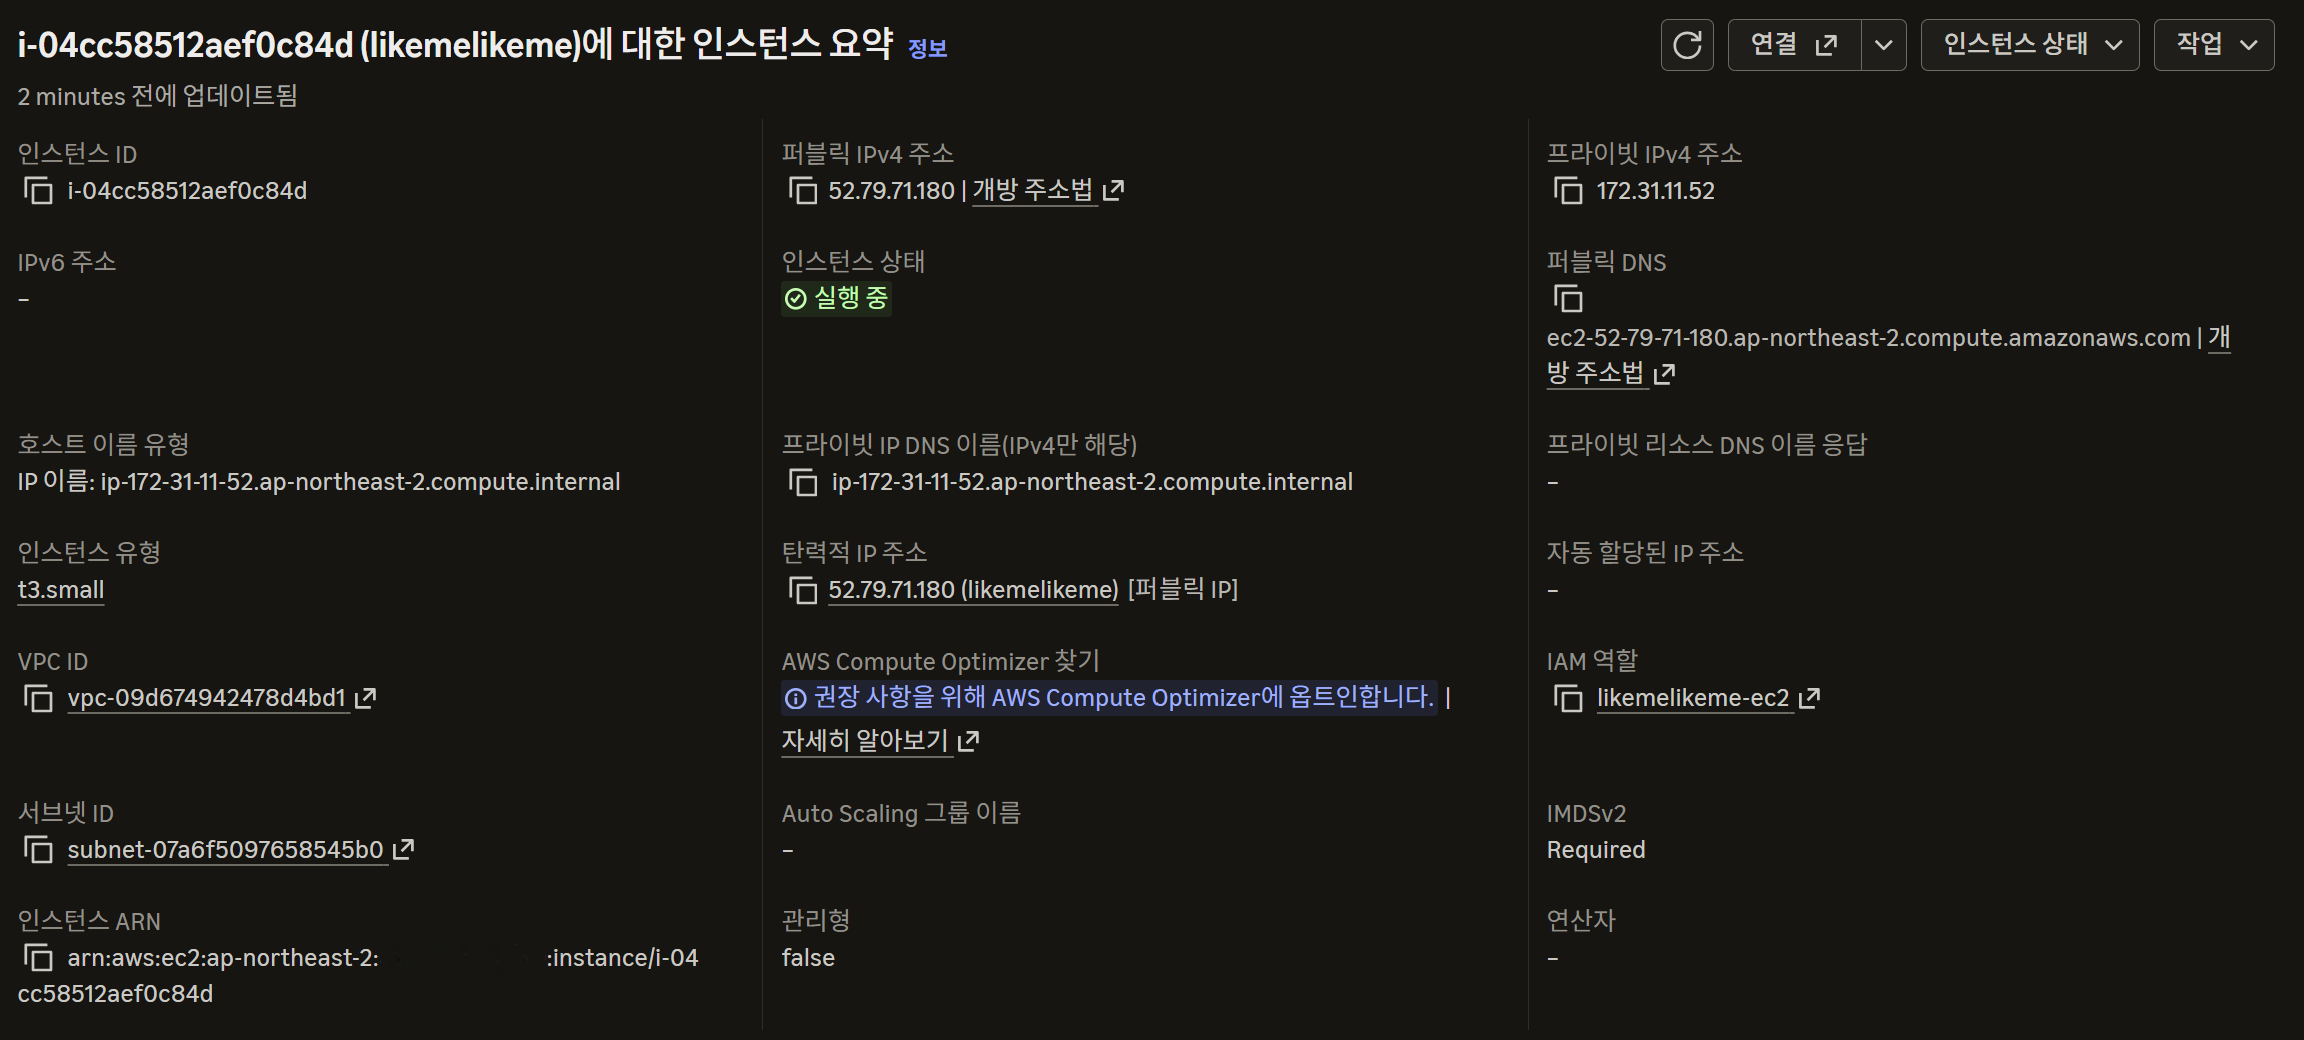
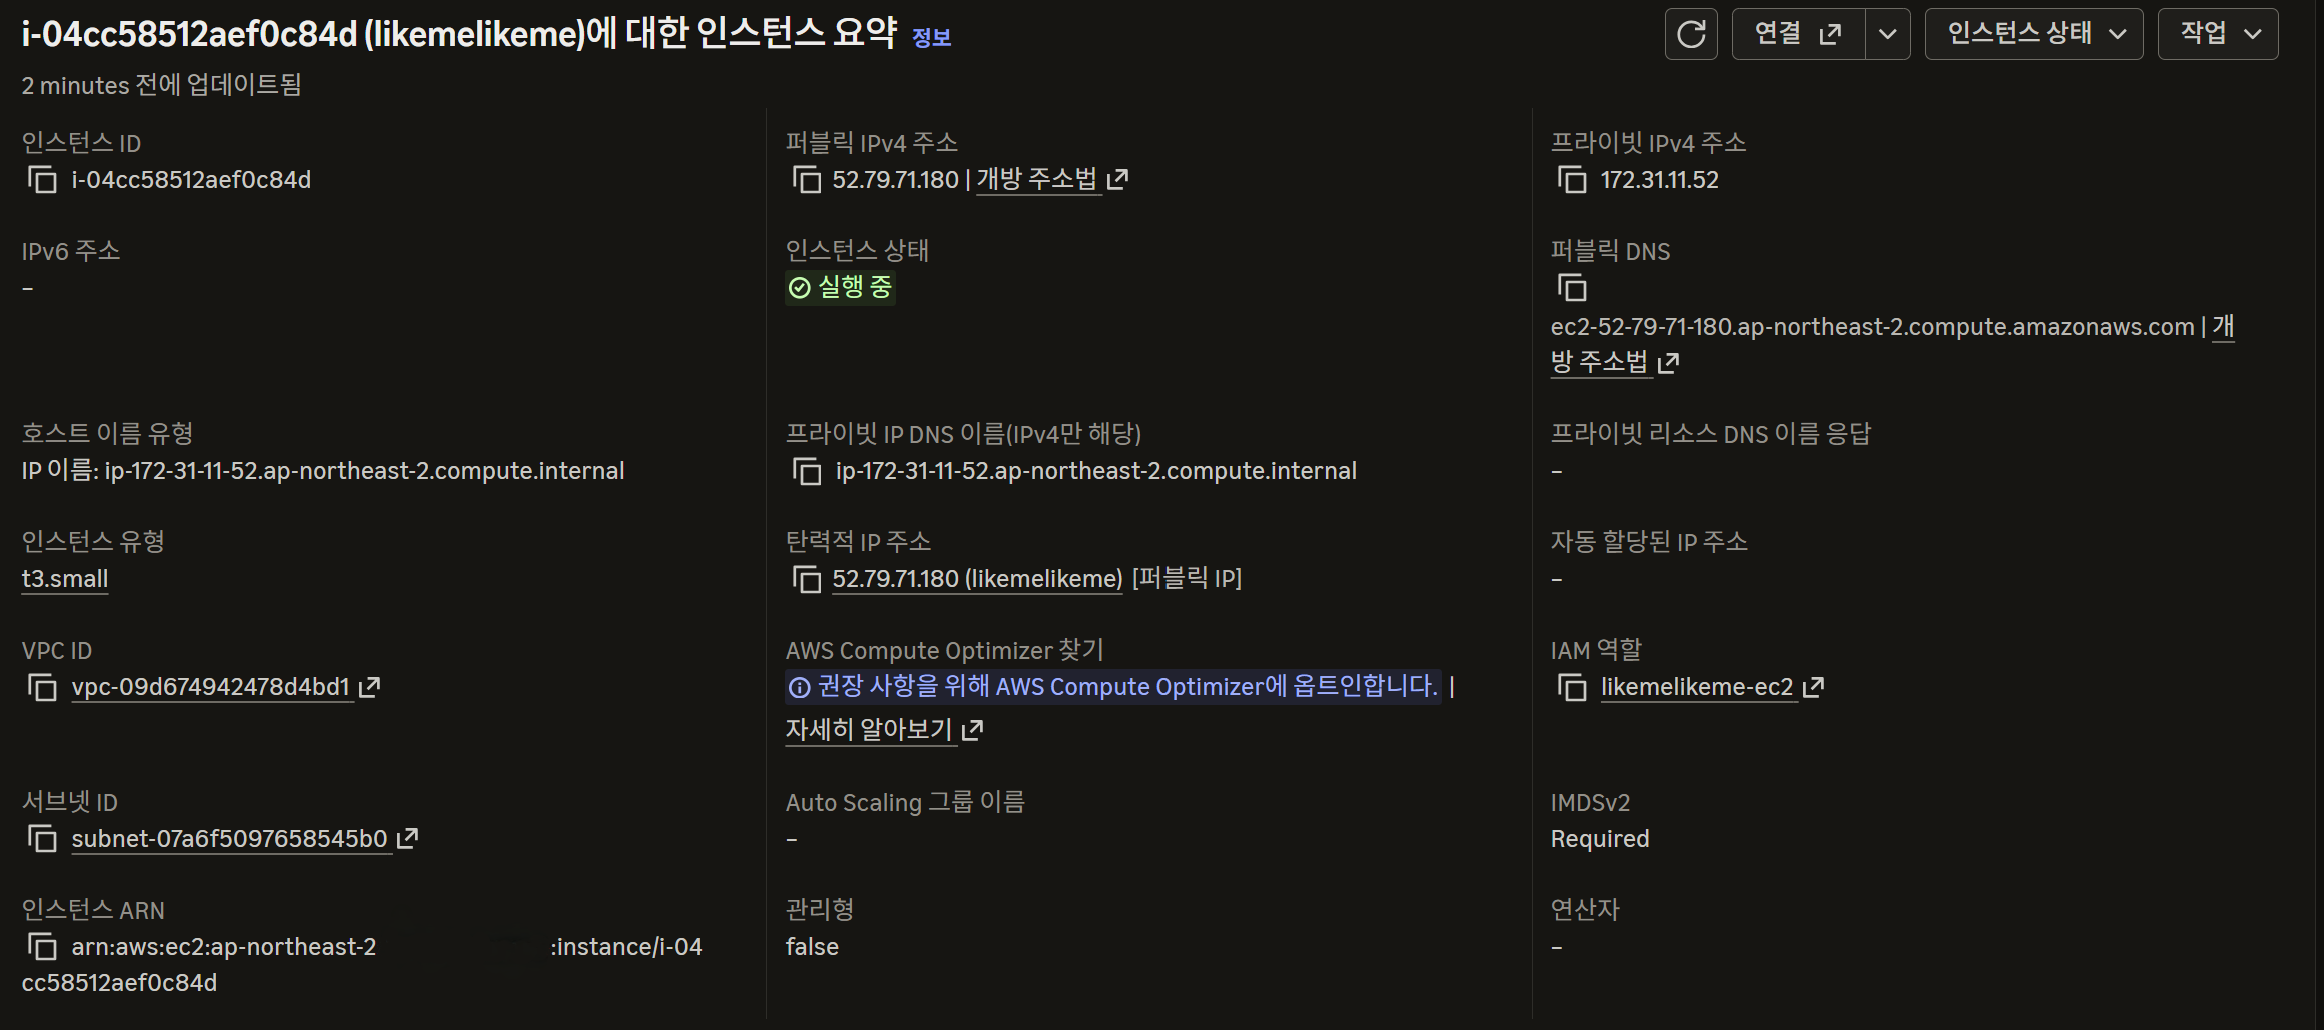
docs: 증거 11 재마스킹과 이력 정리 안내 추가 (#1)

diff --git a/docs/REFACTORING_LOG.md b/docs/REFACTORING_LOG.md
@@ -4,6 +4,23 @@
 > 까지 리팩토링하는 과정 기록. 이 문서는 이후 포트폴리오·기술 블로그(velog) 작성의 1차 자료로 사용한다.
 > 형식: **As-Is(기존 상태) → 문제 인식 → To-Be(개선)**.
 
+> **이력 정리 안내 (2026-11-19)**: 저장소를 공개하기 전에 개인 정보를 제거하면서 Git 이력을 다시 썼다.
+> 그래서 이 문서에 적힌 옛 커밋 해시와 PR 번호(`PR #N`)는 현재 이력과 맞지 않고, 이전 저장소의 PR 기록은 옮기지 않았다.
+> 문서에 나오는 해시의 대응은 다음과 같다.
+>
+> | 옛 해시 | 현재 해시 | 내용 |
+> |---|---|---|
+> | `413edd9` | `d1506ad` | 원본 캡스톤 상태 스냅샷 (`v0-original`) |
+> | `821d548` | `e751fab` | 모노레포 초기 정리 |
+> | `c098e38` | `c7bcef4` | 임베딩 모델 KoSimCSE 교체 |
+> | `5b378ff` | `93dcaba` | RAG 톤샘플 필터링·프롬프트 일관성 개선 |
+> | `04098b5` | `ce789e6` | npm 11 install-script 차단 대응 |
+> | `30a082e` | `98084a8` | env 검증(Joi) |
+> | `6e5f387` | `6c07b4e` | Prisma 확장 6 고정 |
+> | `03f0d72` | `cc53609` | 백엔드 Dockerfile (`v1-dockerized`) |
+> | `af4ef91` | `14b8ec7` | v3-aws 배포 준비 |
+> | `987809f` | `f9658a9` | v3-aws 배포 준비 기록 (`v3-aws`) |
+
 ---
 
 ## 현재 진행 상황 (2026-09-06 기준)

diff --git a/docs/evidence/README.md b/docs/evidence/README.md
@@ -3,6 +3,8 @@
 포트폴리오 글에서 바로 쓰기 위한 캡처 모음. 파일명은 `번호-대상-내용.png`, 번호는 촬영 순서.
 01~07은 다크 배경으로 재촬영한 것이 현재 버전이다.
 
+이력 정리 안내: 표의 이미지 태그 `987809f`는 이력 정리 전 커밋 해시이며, 현재 이력에서는 `f9658a9`에 해당한다. 다른 해시의 대응은 [REFACTORING_LOG](../REFACTORING_LOG.md) 맨 위에 있다.
+
 **공개 전 규칙**: 계정 ID(12자리)·액세스 키 ID·이메일·IP·도메인 토큰은 가린 사본만 둔다.
 가린 항목은 아래 표의 "마스킹"에 적는다. 원본은 이 폴더에 두지 않는다.
 
